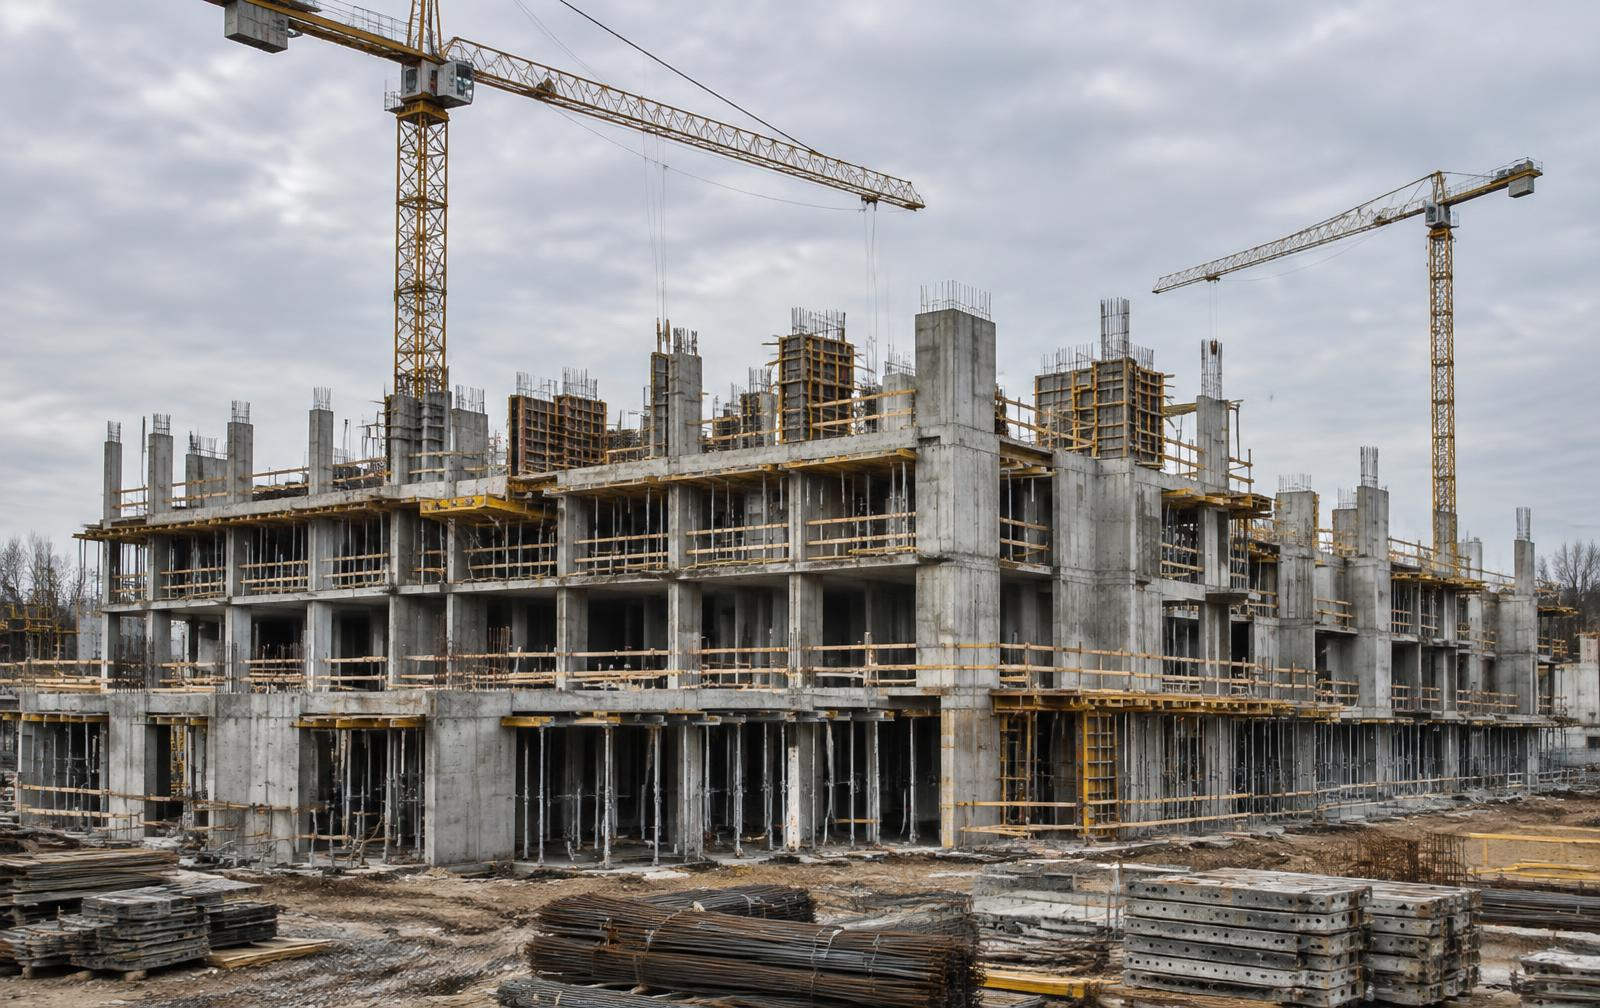
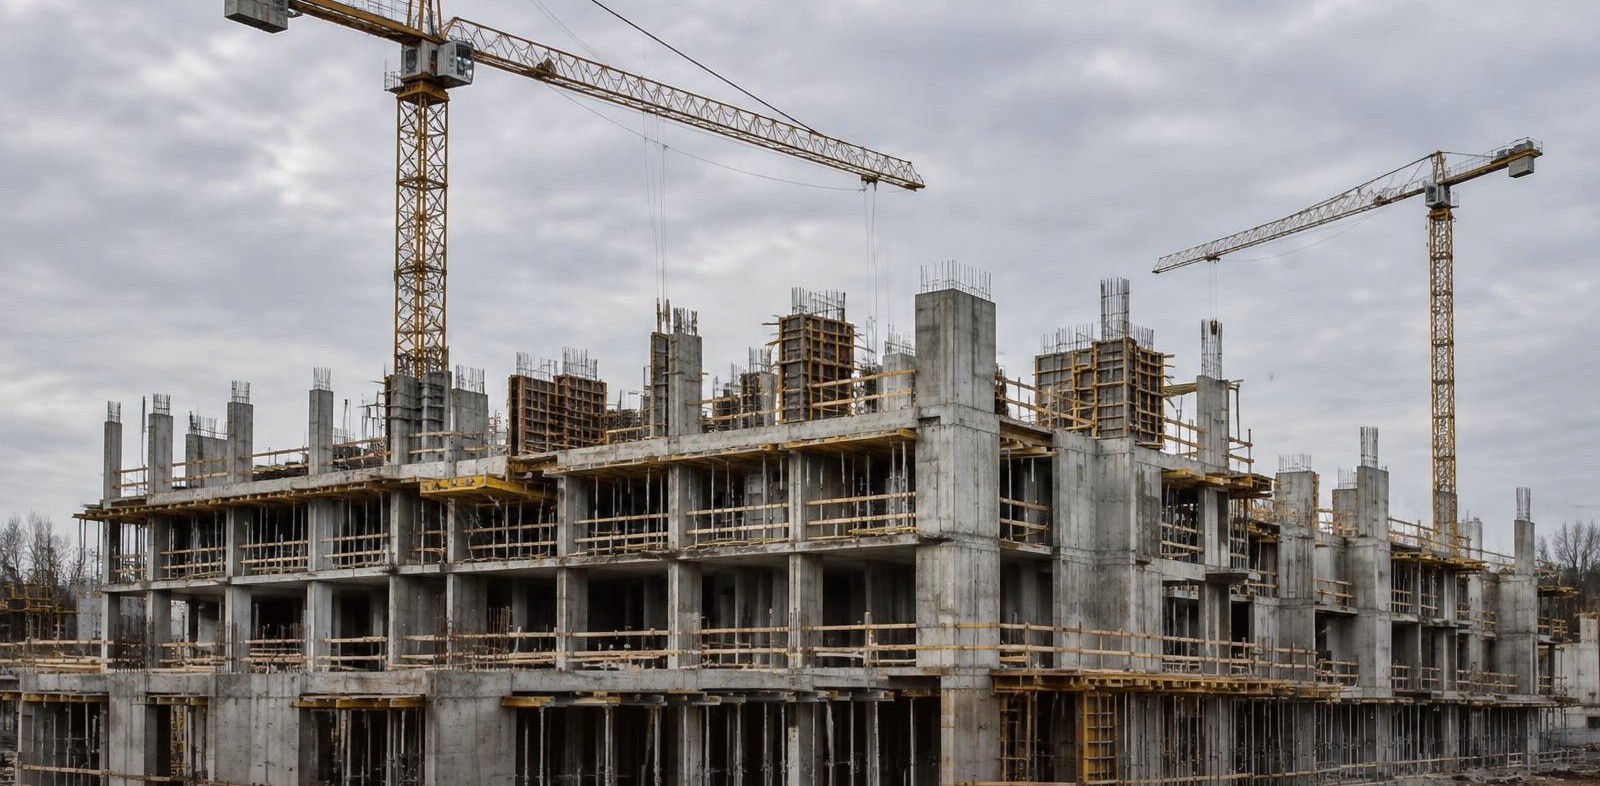
Retoucher l'image hero du chantier (recadrage + colorimétrie)
Recadre le tas de ferraille/coffrages en premier plan pour laisser
l'ossature béton et les grues porter l'image. Contraste +7%,
saturation -10%, léger voile chaud (7%) et fondu en bas pour
raccorder l'image à la palette charbon/orange du site.

Claude-Session: https://claude.ai/code/session_01E39eeRt5wN5fsS2WNThQih

diff --git a/src/routes/index.tsx b/src/routes/index.tsx
@@ -89,7 +89,7 @@ function Index() {
               src={heroImage}
               alt="Structure en béton armé d'un bâtiment en cours de construction, avec grues et coffrages"
               width={1600}
-              height={1008}
+              height={786}
               className="hero-ken-burns h-full w-full object-cover object-center"
             />
           </div>
